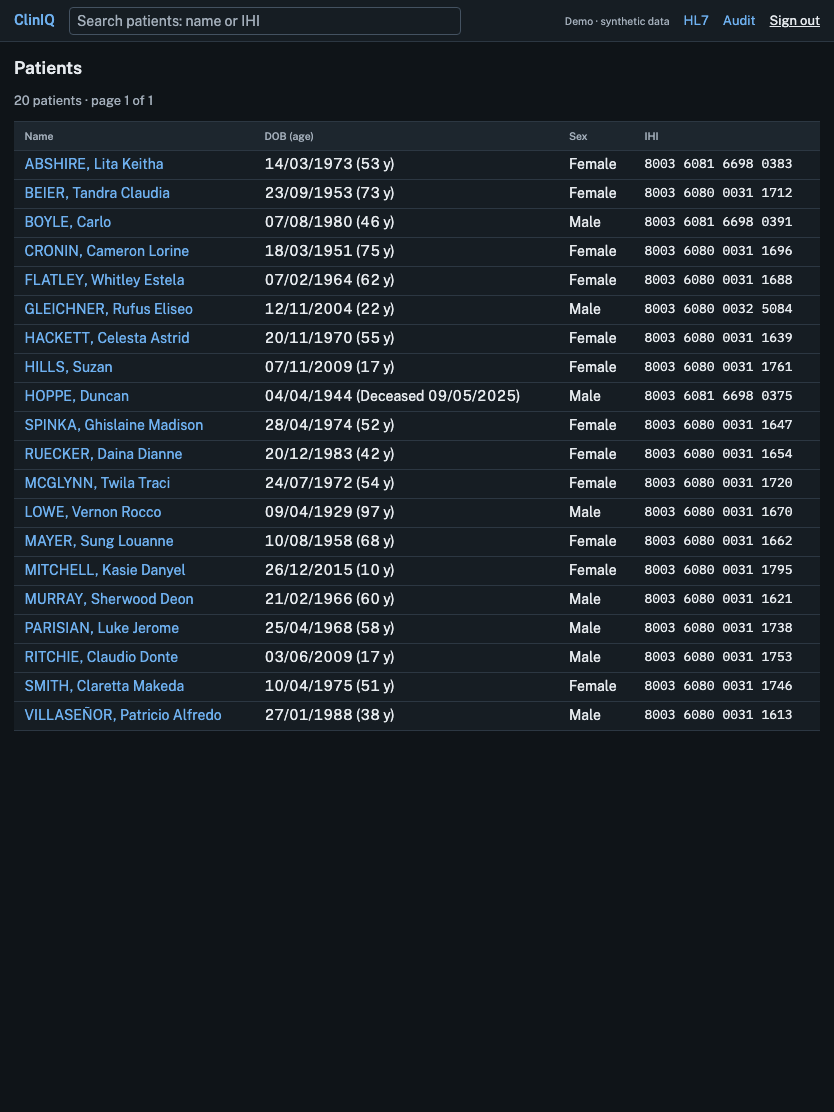
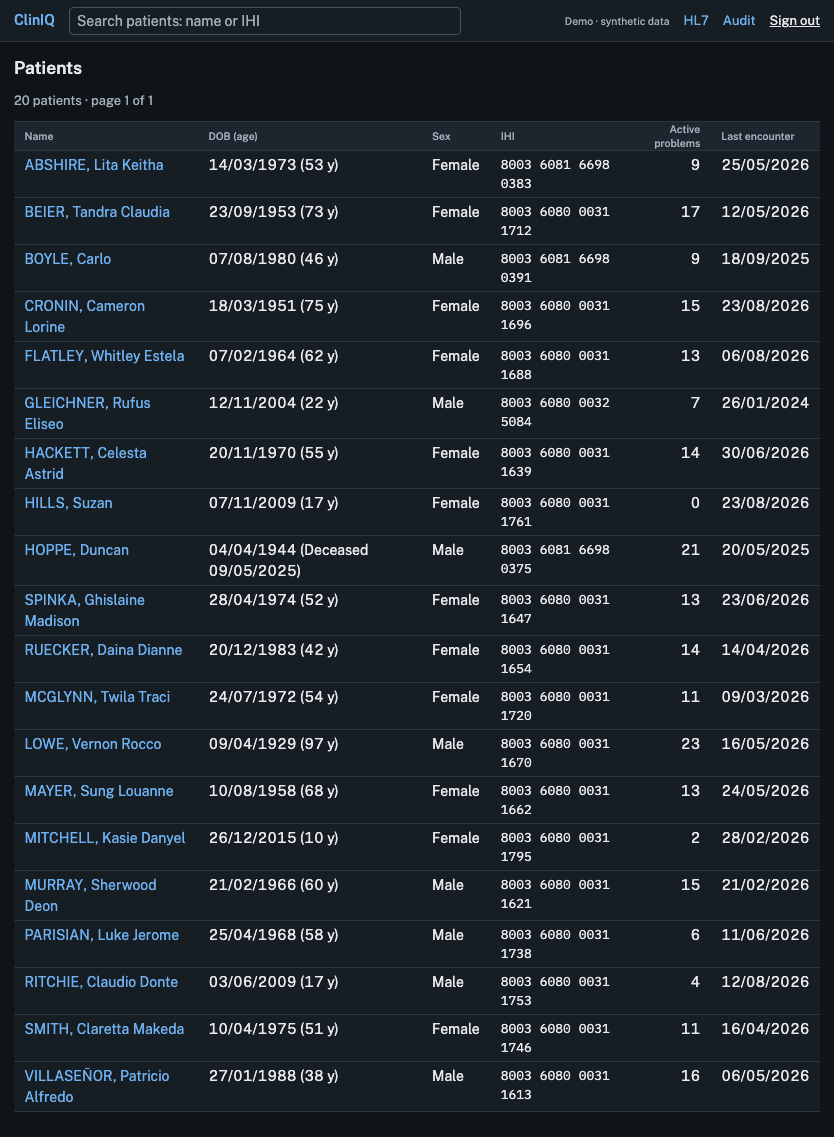
feat: worklist active problems and last encounter; fix custodian missing from the summary document
Claude-Session: https://claude.ai/code/session_01NrsdG1DDaTXCcYvXVBHXXZ

diff --git a/src/app/patients/page.tsx b/src/app/patients/page.tsx
@@ -3,7 +3,7 @@ import Link from "next/link";
 import { connection } from "next/server";
 import DataTable from "@/components/DataTable";
 import FhirNotice from "@/components/FhirNotice";
-import { FhirError, PAGE_SIZE, banner, getPatientsPage } from "@/lib/fhir";
+import { FhirError, PAGE_SIZE, banner, formatDate, getPatientsPage, getWorklistExtras } from "@/lib/fhir";
 
 export const metadata: Metadata = { title: "Patients" };
 
@@ -14,8 +14,10 @@ export default async function Patients({ searchParams }: PageProps<"/patients">)
   const page = Math.max(1, Number(params.page) || 1);
 
   let result;
+  let extras;
   try {
     result = await getPatientsPage(q, page);
+    extras = await getWorklistExtras(result.patients.flatMap((p) => (p.id ? [p.id] : [])));
   } catch (e) {
     if (e instanceof FhirError) return <FhirNotice error={e} />;
     throw e;
@@ -56,6 +58,8 @@ export default async function Patients({ searchParams }: PageProps<"/patients">)
           },
           { header: "Sex", cell: (p) => <span className="capitalize">{banner(p).sex}</span> },
           { header: "IHI", mono: true, cell: (p) => banner(p).ihi ?? "—" },
+          { header: "Active problems", align: "right", cell: (p) => extras?.get(p.id ?? "")?.active ?? "—" },
+          { header: "Last encounter", cell: (p) => formatDate(extras?.get(p.id ?? "")?.lastEncounter) },
         ]}
       />
       <nav aria-label="Pages" className="mt-3 flex gap-4 text-[13px]">

diff --git a/src/lib/fhir/index.ts b/src/lib/fhir/index.ts
@@ -71,3 +71,32 @@ export async function getChartData(id: string) {
   );
   return { medications, medicationById, immunizations, encounters };
 }
+
+/** Worklist extras for one page of patients: active problem count and last encounter date. */
+export async function getWorklistExtras(ids: string[]) {
+  const safe = ids.filter(isFhirId);
+  const extras = new Map<string, { active: number; lastEncounter?: string }>(
+    safe.map((id) => [id, { active: 0 }]),
+  );
+  if (!safe.length) return extras;
+  const [conditions, encounters] = await Promise.all([
+    fhirSearch<Condition>(
+      `Condition?patient=${safe.join(",")}&clinical-status=active&_elements=subject&_count=500`,
+    ),
+    Promise.all(
+      safe.map((id) =>
+        fhirSearch<Encounter>(`Encounter?patient=${id}&_sort=-date&_count=1&_elements=period`, {
+          maxPages: 1,
+        }),
+      ),
+    ),
+  ]);
+  for (const c of conditions) {
+    const e = extras.get(c.subject?.reference?.split("/")[1] ?? "");
+    if (e) e.active += 1;
+  }
+  safe.forEach((id, i) => {
+    extras.get(id)!.lastEncounter = encounters[i][0]?.period?.start;
+  });
+  return extras;
+}

diff --git a/src/lib/ps/build.test.ts b/src/lib/ps/build.test.ts
@@ -37,6 +37,16 @@ const sections = (b: Bundle) => (b.entry![0].resource as Composition).section!;
 const ids = (b: Bundle) => b.entry!.map((e) => `${e.resource!.resourceType}/${e.resource!.id}`);
 
 describe("AU Patient Summary builder", () => {
+  it("author and custodian are in the document and named for the owner", () => {
+    const b = buildPatientSummary(base);
+    const c = b.entry![0].resource as Composition;
+    expect(c.author?.[0].reference).toBe("Practitioner/cliniq-author");
+    expect(c.custodian?.reference).toBe("Organization/cliniq-custodian");
+    expect(ids(b)).toEqual(
+      expect.arrayContaining(["Practitioner/cliniq-author", "Organization/cliniq-custodian"]),
+    );
+  });
+
   it("a patient with no allergies gets an empty Allergies section with an empty reason, not a dropped section", () => {
     const allergies = sections(buildPatientSummary(base)).find(
       (s) => s.title === "Allergies and adverse reactions",

diff --git a/tests/e2e/smoke.spec.ts b/tests/e2e/smoke.spec.ts
@@ -47,6 +47,8 @@ test("worklist, search and empty result", async ({ page }) => {
   await page.goto("/patients");
   await expect(page.getByRole("link", { name: /ABSHIRE/ })).toBeVisible();
   await expect(page.getByText("20 patients · page 1 of 1")).toBeVisible(); // the cohort fits one page
+  await expect(page.getByRole("columnheader", { name: "Active problems" })).toBeVisible();
+  await expect(page.getByRole("row", { name: /ABSHIRE/ })).toContainText(/\d{2}\/\d{2}\/\d{4}/); // last encounter date
   await page.goto("/patients?q=Zzzz");
   await expect(page.getByText("No patients match that search.")).toBeVisible();
 });

diff --git a/src/lib/ps/build.ts b/src/lib/ps/build.ts
@@ -228,6 +228,7 @@ export function buildPatientSummary(src: Source, now = new Date()): Bundle {
     composition,
     patient,
     author,
+    custodian,
     ...problemEntries,
     ...allergyEntries,
     ...medEntries,

diff --git a/docs/validation/au-ps.md b/docs/validation/au-ps.md
@@ -13,7 +13,7 @@ Each document is built by `src/lib/ps/build.ts` from a patient on the local HAPI
 
 ## Warnings by count (messages generalised)
 
-- 195 × Constraint failed: dom-N: '…' (defined in http://hlN.org/fhir/StructureDefinition/DomainResource) (Best Practice Recommendation)
+- 198 × Constraint failed: dom-N: '…' (defined in http://hlN.org/fhir/StructureDefinition/DomainResource) (Best Practice Recommendation)
 - 90 × Best Practice Recommendation: In general, all observations should have a performer
 - 52 × A definition for CodeSystem '…' version '…' could not be found, so the code cannot be validated. Valid versions: http://snomed.info/sct/N/version/N, http://snom
 - 49 × A definition for CodeSystem '…' could not be found, so the code cannot be validated
